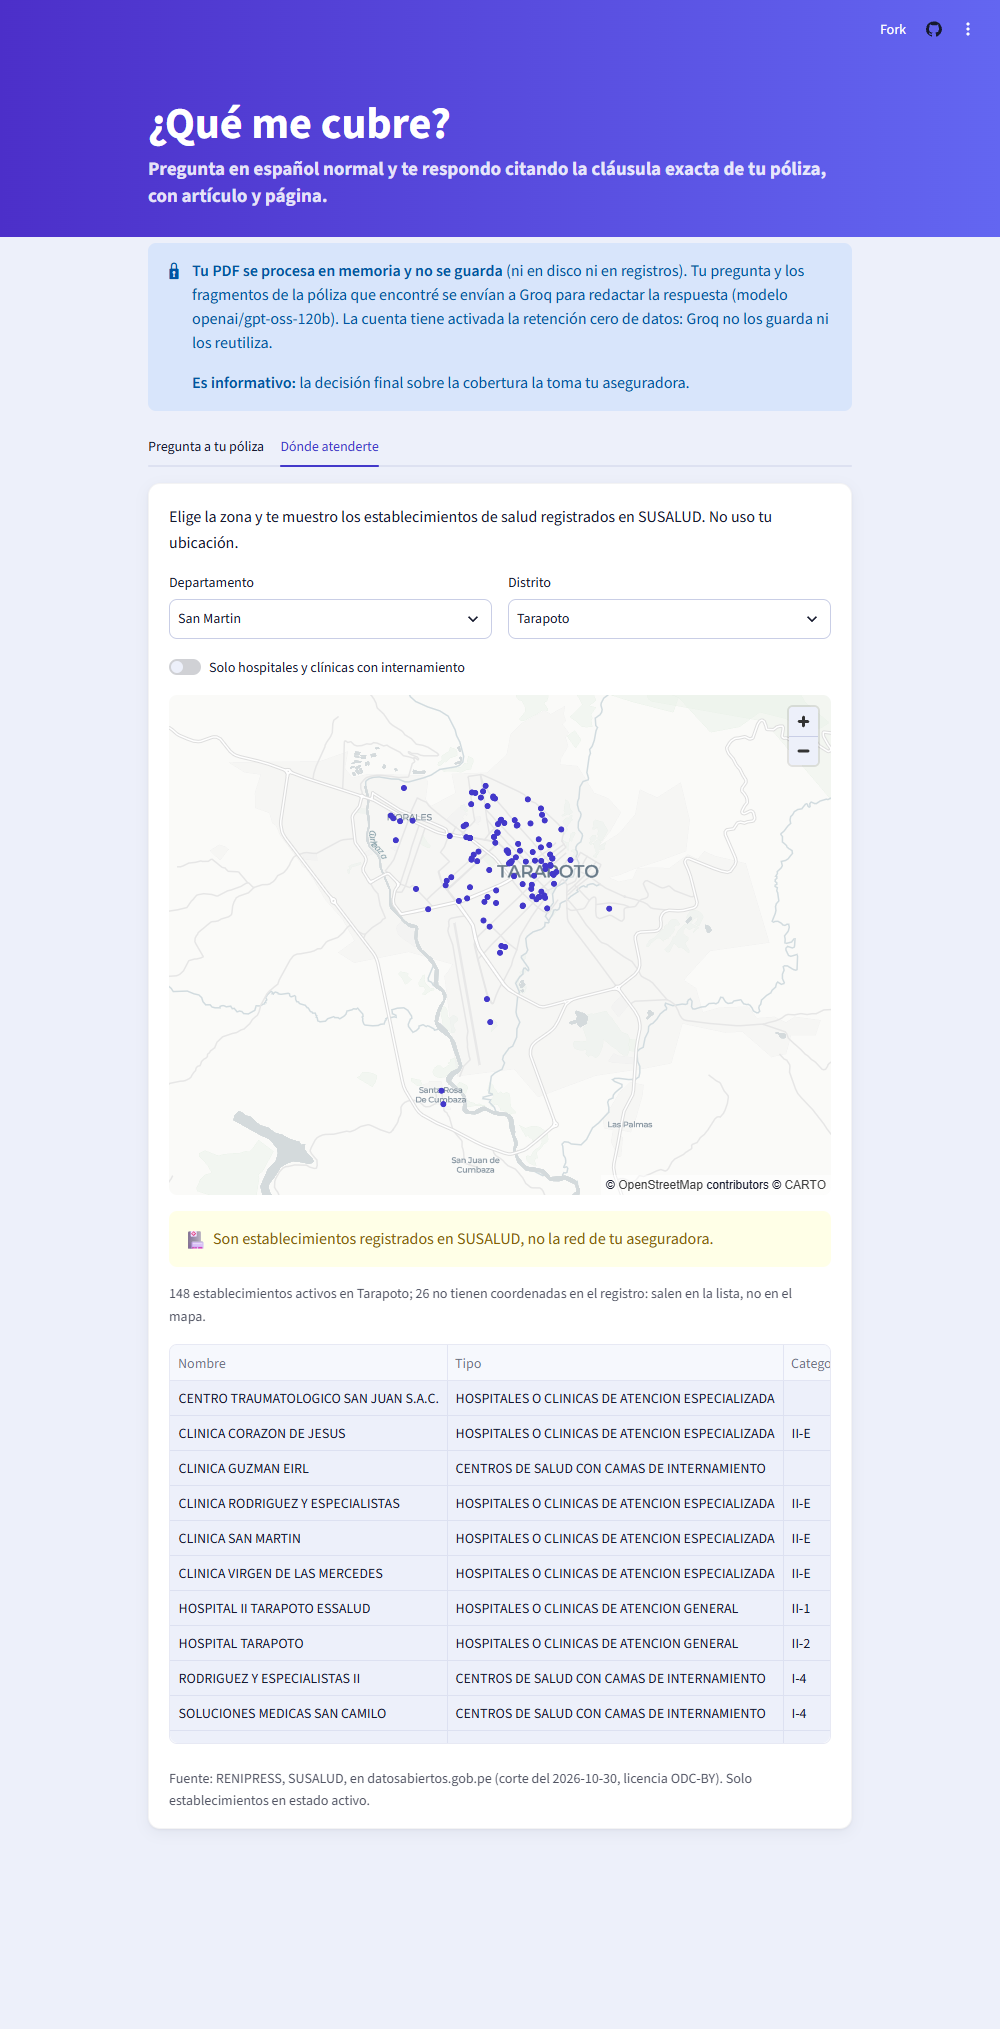
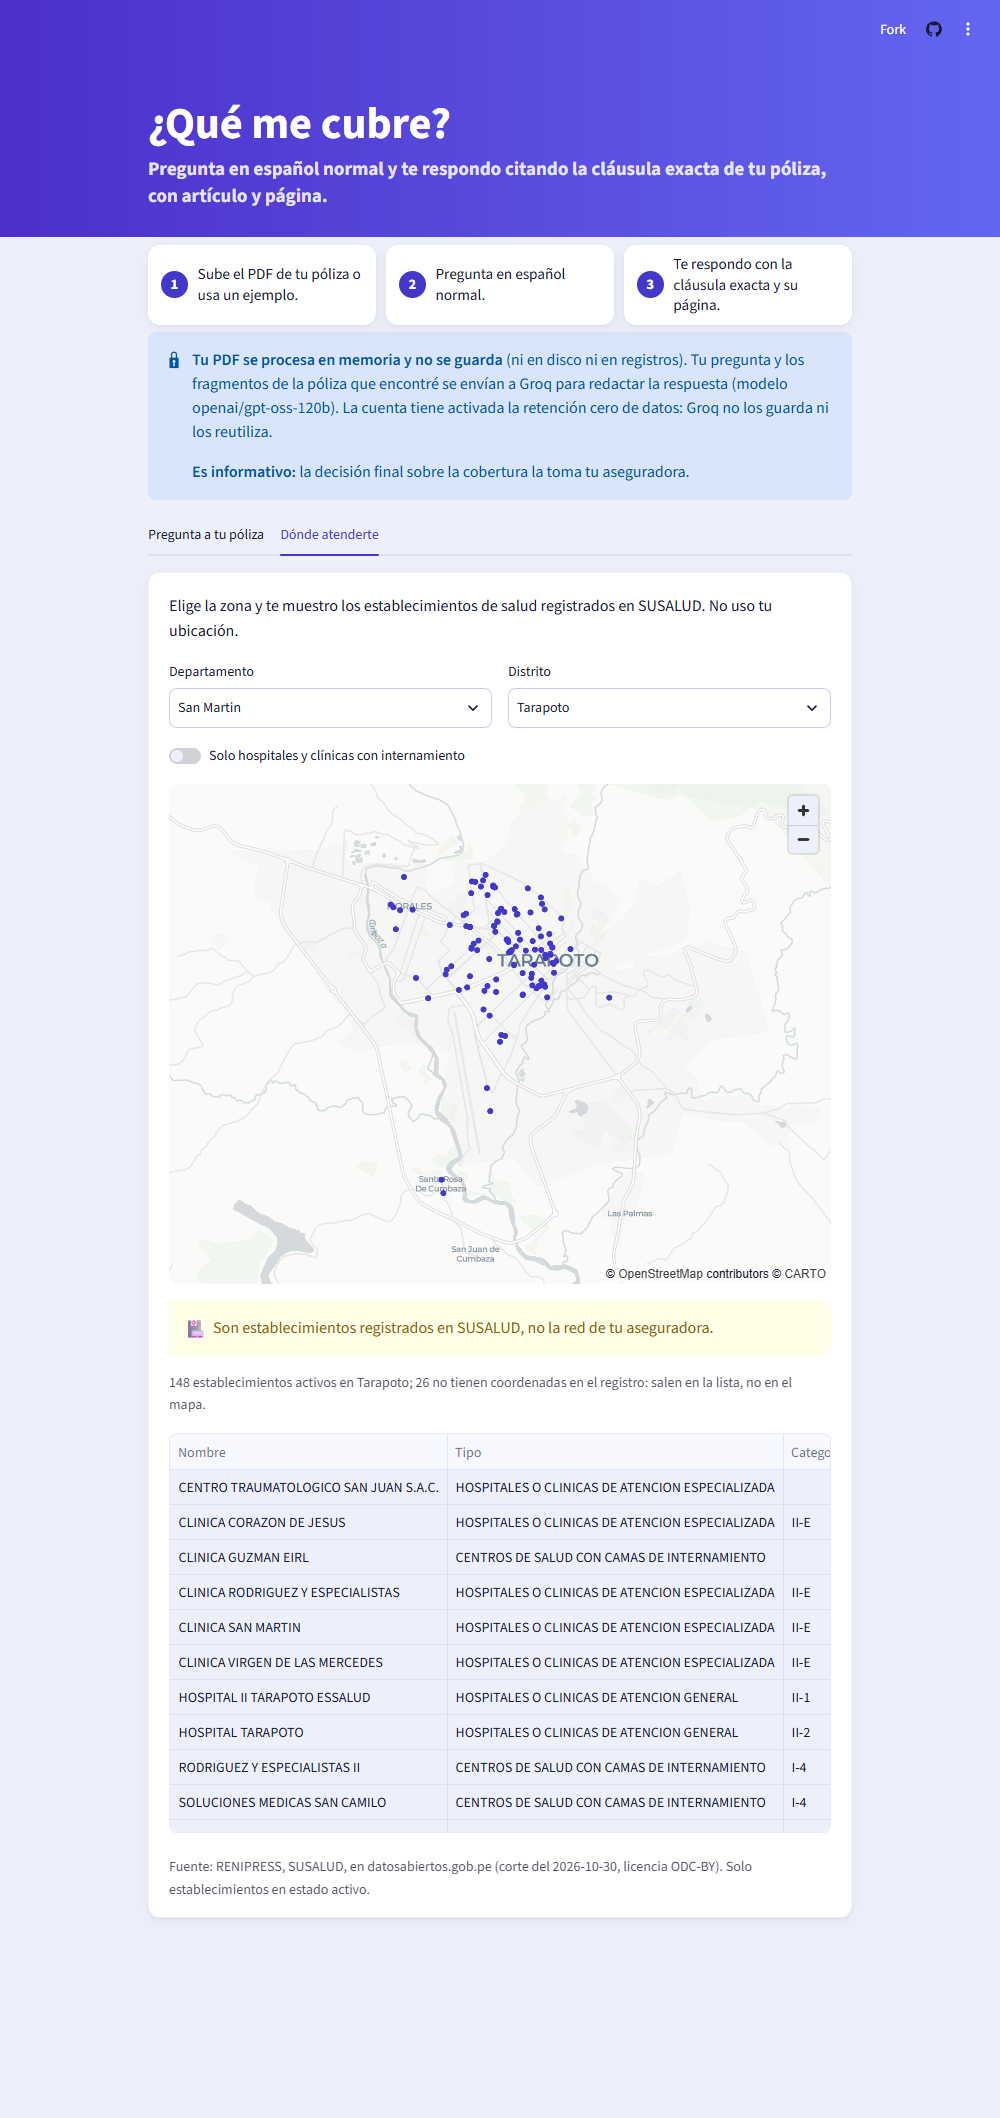
Capturas en vivo con la pantalla nueva; una respuesta sin texto en la app desplegada
- Las cuatro capturas, de queqbre.streamlit.app con respuestas de Groq: la
  pantalla de entrada nueva (cómo funciona, subir el PDF arriba, condicionados de
  ejemplo debajo), P02 y P01 "Cubre con límites" con B4, y el mapa. El primer
  intento de P02 cayó en la red de seguridad y se descartó.
- README: de 14 respuestas con el tope de 3800 (10 medidas y 4 en la app
  desplegada), una salió sin texto.

diff --git a/docs/arquitectura.md b/docs/arquitectura.md
@@ -75,20 +75,23 @@ que la verificación no garantiza (ver Limitaciones en el README).
 
 ## Capturas
 
-Tomadas el 2026-11-08 de la app desplegada ([queqbre.streamlit.app](https://queqbre.streamlit.app/)),
+Tomadas el 2026-11-09 de la app desplegada ([queqbre.streamlit.app](https://queqbre.streamlit.app/)),
 con respuestas en vivo de Groq (`openai/gpt-oss-120b`), con
 `python pruebas/capturas.py --url https://queqbre.streamlit.app --espera 45`. El script deja pasar
 el límite por minuto entre las dos preguntas y se detiene sin guardar si una respuesta sale sin
-veredicto o sin el bloque de B4.
+veredicto o sin el bloque de B4: el primer intento de P02 cayó en la red de seguridad (respuesta
+sin el formato esperado) y se descartó; estas son del segundo.
 
-1. Inicio: póliza, pregunta y los dos ejemplos de Tarapoto, que solo aparecen con la póliza
-   de Chubb.
+1. Inicio: los tres pasos de cómo funciona; arriba, subir el PDF de la póliza (uno o varios
+   archivos); debajo, en letra chica, los condicionados de ejemplo; la pregunta con "Una
+   pregunta a la vez." y los dos ejemplos de Tarapoto, que solo aparecen con la póliza de Chubb.
 
    ![Inicio](capturas/1_inicio.png)
 
-2. La radiografía al llegar a Lima (P02): "Cubre con límites" arriba, la explicación, B4
-   resaltado con su página, las remisiones plegadas, las citas y la preexistencia en
-   "exclusiones que podrían aplicar según tu caso".
+2. La radiografía al llegar a Lima (P02): "Cubre con límites" arriba, B4 resaltado con su
+   página, las remisiones plegadas y tres citas. Esta vez la explicación salió corta y el
+   modelo puso la exclusión de exámenes de rutina entre las que aplican, aunque la radiografía
+   la indicó un médico: es el hueco de la conclusión que se describe en Limitaciones.
 
    ![Respuesta a la radiografía](capturas/2_respuesta_radiografia.png)
 

diff --git a/README.md b/README.md
@@ -366,7 +366,9 @@ que-me-cubre/
   Ninguno registró el tipo de falla; la salida más larga que sí entró usó 2550 de los 3000.
   Por eso el tope de la respuesta subió a 3800, y con él, en las 10 corridas siguientes de P01 y P02,
   ninguna se quedó sin texto al primer intento; la salida más larga usó 3150 tokens, que con el
-  tope de 3000 se habría cortado. Para `gpt-oss-120b`, Groq admite cada
+  tope de 3000 se habría cortado. De las 14 respuestas pedidas con el tope de 3800 (las 10 de
+  la medición y 4 en la app desplegada el 9 de noviembre), una salió sin texto: P02, al tomar
+  las capturas; el tipo de falla quedó en los logs de la app. Para `gpt-oss-120b`, Groq admite cada
   llamada por la entrada estimada, sin sumar el tope
   ([`pruebas/opciones.md`](pruebas/opciones.md)), así que subirlo no cambia la admisión por
   minuto: solo deja terminar una respuesta larga, y P02, la entrada más grande (3734),
